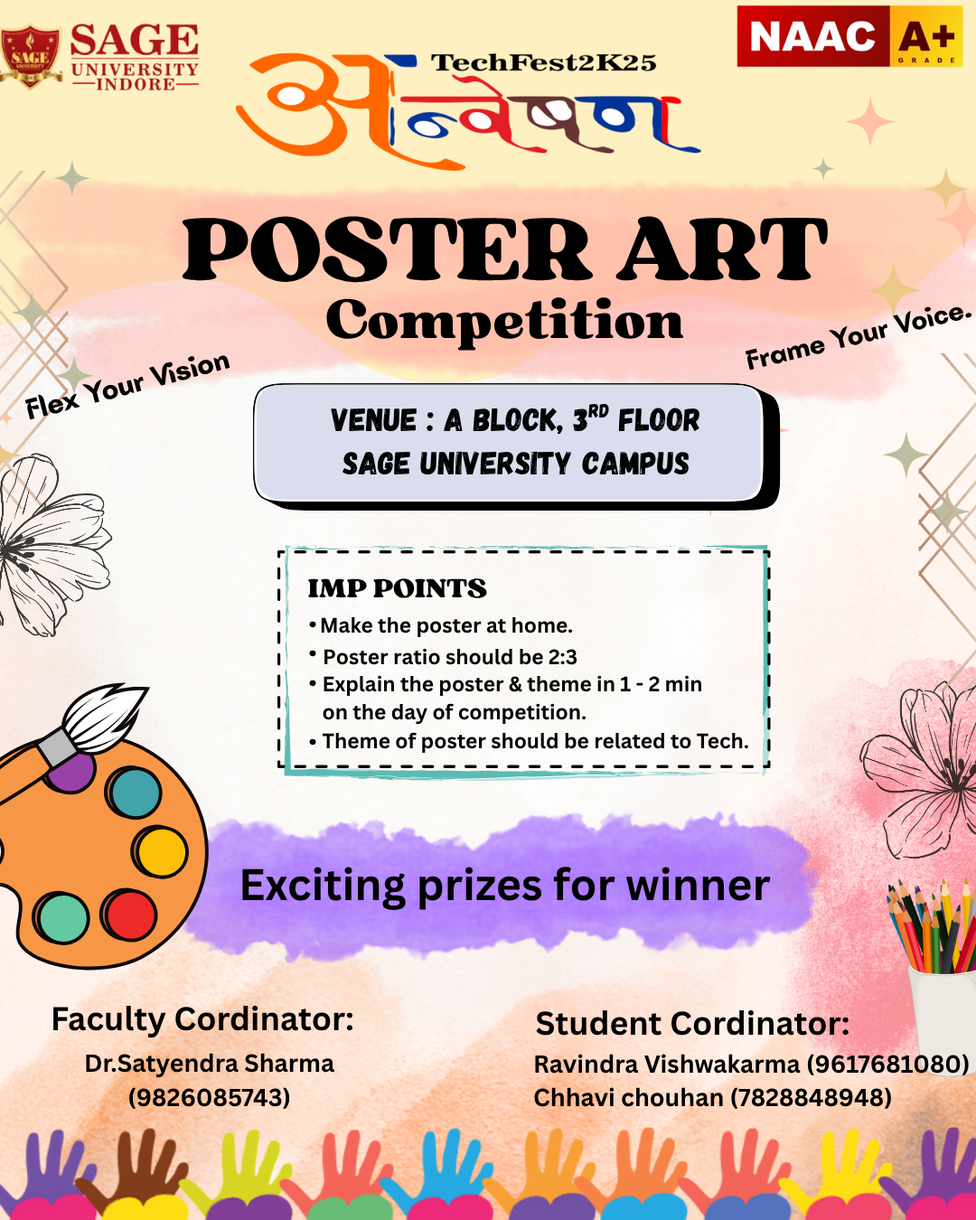
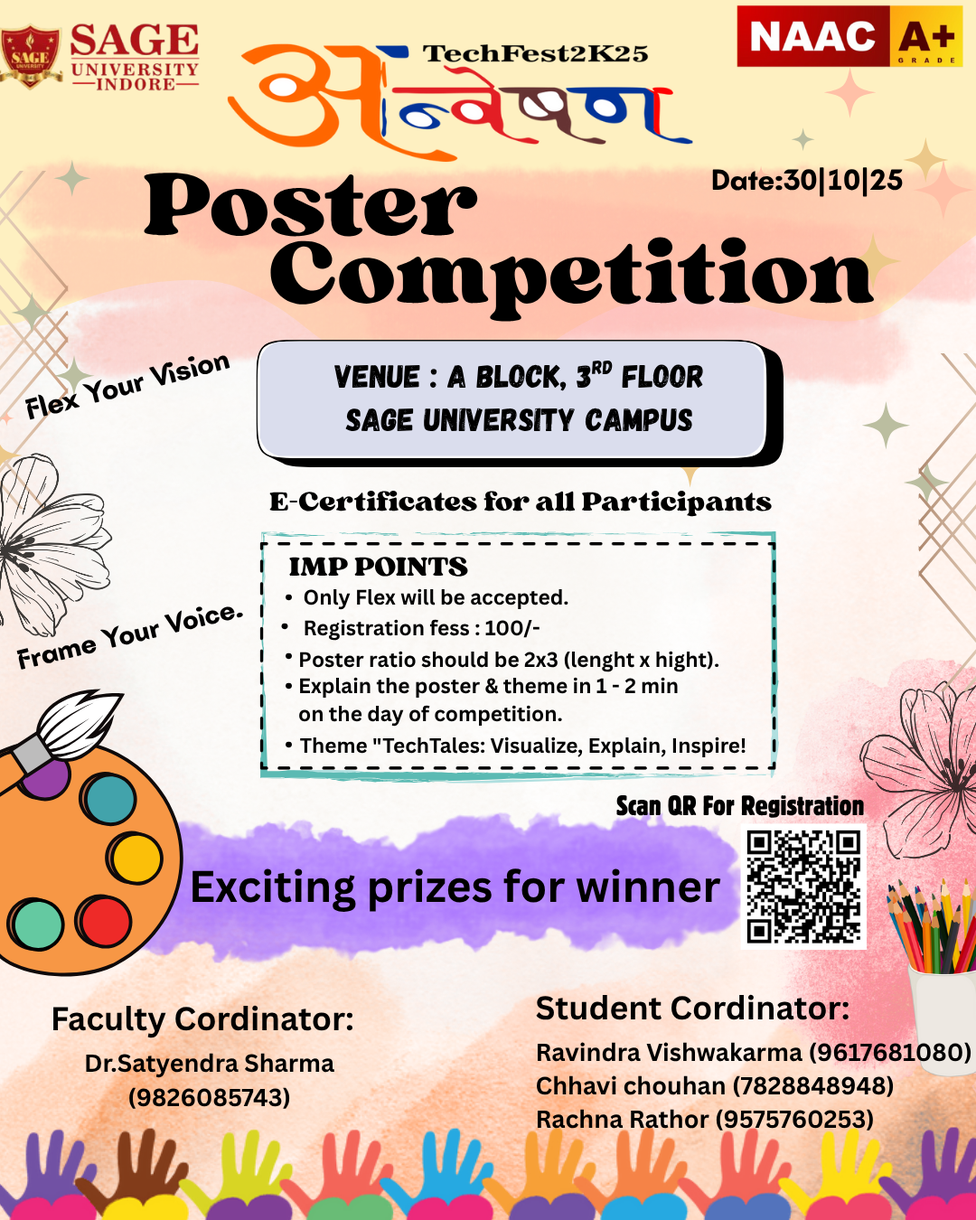
Updated Events

Changed region(s): [[0.0, 0.0311, 1.0, 0.8089], [0.55, 0.8089, 1.0, 0.9333], [0.0611, 0.2489, 0.1222, 0.28]]

diff --git a/src/components/EventsPreview.tsx b/src/components/EventsPreview.tsx
@@ -3,15 +3,30 @@ import { motion } from 'framer-motion';
 // Imported IndianRupee, User, Phone, etc.
 import { Brain, Calendar, Clock, Code, Cpu, Gamepad2, IndianRupee, Lightbulb, Phone, Smartphone, User, Users, X } from 'lucide-react';
 import React, { useState } from 'react';
-import DataViz from './assets/Posters/DataViz.jpeg';
-import Hackathon from './assets/Posters/Hackathon.jpeg';
-import Debate from './assets/Posters/OMJ.jpeg';
-import Poster from './assets/Posters/Poster.png';
-import Quiz from './assets/Posters/Quiz.png';
-import Robo from './assets/Posters/Robo.jpeg';
-import UI from './assets/Posters/UI.jpeg';
+import Badminton from './assets/Posters/Badminton.jpeg';
+import BasketBall from './assets/Posters/BasketBall.jpeg';
+import LANGaming from './assets/Posters/BGMI.jpeg';
+import Chess from './assets/Posters/Chess.jpeg';
 import CodeRace from './assets/Posters/Code Race.jpeg';
+import Dance from './assets/Posters/Dance.jpeg';
+import DataViz from './assets/Posters/DataViz.jpeg';
+import Debate from './assets/Posters/Debate.jpeg';
+import GullyCricket from './assets/Posters/GullyCricket.jpeg';
+import Hackathon from './assets/Posters/Hackathon.jpeg';
+import OMJ from './assets/Posters/OMJ.jpeg';
+import Poster from './assets/Posters/Poster.png';
 import ProjectExhibition from './assets/Posters/ProjectExhibition.png';
+import Quiz from './assets/Posters/Quiz.jpeg';
+import Robo from './assets/Posters/Robo.png';
+import Singing from './assets/Posters/Singing.jpeg';
+import TreasureHunt from './assets/Posters/Treasure Hunt.jpeg';
+import TableTennis from './assets/Posters/TT.jpeg';
+import UI from './assets/Posters/UI.jpeg';
+import VolleyBall from './assets/Posters/VolleyBall.jpeg';
+import FF from './assets/Posters/FF.jpeg';
+import FunFair from './assets/Posters/FunFair.jpeg';
+
+
 
 
 // ----------------------------------------------------------------------
@@ -56,7 +71,7 @@ const events: Event[] = [
     date: 'October 30, 2025', 
     time: '9:00 AM', 
     participants: '50+', 
-    image: Debate, 
+    image: OMJ, 
     registrationFee: '₹100',
     facultyCoordinator: [
       { name: 'Dr. Ati Jain', phone: '9826373722' },
@@ -105,28 +120,32 @@ const events: Event[] = [
   { id: 8, title: 'Project Exhibition', category: 'Techno Parv', description: 'Present your innovative projects and showcase your technical creativity.', icon: Lightbulb, date: 'November 1, 2025', time: '3:00 PM', participants: '100+', image: ProjectExhibition, registrationFee: '₹100', facultyCoordinator: [{ name: 'Prof. Jitendra Sharma', phone: '88219 75488' }], studentCoordinator: [{ name: 'Aditya Choudhary', phone: '7987564175' }], registrationLink: 'https://sageuniversity.in/sage_events/anveshan/' },
   { id: 9, title: 'Code Race', category: 'Techno Parv', description: 'Compete to solve coding problems faster and smarter than your peers.', icon: Lightbulb, date: 'November 1, 2025', time: '3:00 PM', participants: '100+', image: CodeRace, registrationFee: '₹100', facultyCoordinator: [{ name: 'Prof. vaishali Bajpaye', phone: '95841 89932' }], studentCoordinator: [{ name: 'Yashita kushwah ', phone: '9993911030' }], registrationLink: 'https://sageuniversity.in/sage_events/anveshan/' },
   { id: 10, title: 'Tech Debate', category: 'Techno Parv', description: 'Argue your stance on trending tech topics with logic, clarity, and confidence.', icon: Lightbulb, date: 'November 1, 2025', time: '3:00 PM', participants: '100+', image: Debate, registrationFee: '₹100', facultyCoordinator: [{ name: 'Prof. Jitendra Saxena', phone: '90733 22300' }], studentCoordinator: [{ name: 'Arslan Hussain', phone: '6206825799' }], registrationLink: 'https://sageuniversity.in/sage_events/anveshan/' },
-  { id: 11, title: 'LAN Gaming', category: 'Techno Parv', description: 'Compete in adrenaline-pumping multiplayer games for the ultimate gaming glory.', icon: Code, date: 'November 1, 2025', time: '9:00 AM', participants: '500+', image: 'appareal-show-poster.jpg', registrationFee: '₹200', facultyCoordinator: [{ name: 'Prof. Dilip Solanki', phone: '98267 18678' }], studentCoordinator: [{ name: 'Om Shukla', phone: '8989468730' },{ name: 'Aditya Verma', phone: '78188 39571' }], registrationLink: 'https://sageuniversity.in/sage_events/anveshan/' },
-  // { id: 12, title: 'Capture the Flag', category: 'Techno Parv', description: 'Solve cybersecurity challenges to uncover hidden “flags” and prove your hacking skills.', icon: Brain, date: 'November 1, 2025', time: '10:00 AM', participants: '200+', image: 'battle-of-bands-poster.jpg', registrationFee: '₹100', facultyCoordinator: [{ name: 'Mr. Ravikant kori', phone: '91096 19488' }], studentCoordinator: [{ name: 'Tushar Kaushik', phone: '8602198299' }], registrationLink: 'https://sageuniversity.in/sage_events/anveshan/' },
+  { id: 11, title: 'BGMI LAN Gaming', category: 'Techno Parv', description: 'Compete in adrenaline-pumping multiplayer games for the ultimate gaming glory.', icon: Code, date: 'October 30, 2025', time: '9:00 AM', participants: '500+', image: LANGaming, registrationFee: '₹1000', facultyCoordinator: [{ name: 'Prof. Dilip Solanki', phone: '98267 18678' }], studentCoordinator: [{ name: 'Om Shukla', phone: '8989468730' },{ name: 'Aditya Verma', phone: '78188 39571' }], registrationLink: 'https://sageuniversity.in/sage_events/anveshan/' },
+    { id: 12, title: 'Free Fire LAN Gaming', category: 'Techno Parv', description: 'Compete in adrenaline-pumping multiplayer games for the ultimate gaming glory.', icon: Code, date: 'October 30, 2025', time: '9:00 AM', participants: '500+', image: FF, registrationFee: '₹500', facultyCoordinator: [{ name: 'Prof. Dilip Solanki', phone: '98267 18678' }], studentCoordinator: [{ name: 'Aditya Yadav', phone: '9244639933' },{ name: 'Prince Goutam', phone: '700488806' }], registrationLink: 'https://sageuniversity.in/sage_events/anveshan/' },
   { id: 13, title: 'BATTLE OF BANDS', category: 'Cultural Carnival', description: 'Rock the stage as bands clash in an electrifying showdown of rhythm and energy.', icon: Cpu, date: 'November 1, 2025', time: '1:30 - 4:30 PM', participants: '150+', image: 'standup-comedy-poster.jpg', registrationFee: '₹2000', facultyCoordinator: [{ name: 'Prof. Nayan Joshi', phone: '8827563739' },{ name: 'Prof. Siddharth Nath Goutam', phone: '8989525943' }], studentCoordinator: [{ name: 'Vansh OJha', phone: '99939256' },{ name: 'Bishal Joshi', phone: '8623839920' }], registrationLink: 'https://sageuniversity.in/sage_events/anveshan/' },
   { id: 14, title: 'FASHION SHOW', category: 'Cultural Carnival', description: 'Walk the ramp with style and confidence while showcasing creativity and trends.', icon: Gamepad2, date: 'November 1, 2025', time: '11:00 AM', participants: '300+', image: 'stunt-mania-poster.jpg', registrationFee: 'Fashion Show - ₹600 | Apparel Show - ₹1000', facultyCoordinator: [{ name: 'Prof. Aishwarya Patidar', phone: '70008 19969' }], studentCoordinator: [{ name: 'Atharva Barve', phone: '99814 75286' },{ name: 'Hrishikesh Shrivastava', phone: '99879 46163' }], registrationLink: 'https://sageuniversity.in/sage_events/anveshan/' },
-  { id: 15, title: 'Treasure Hunt', category: 'Cultural Carnival', description: 'Solve clues, race against time, and uncover the hidden treasure with your team.', icon: Lightbulb, date: '31/10/2025', time: '11:00 AM', participants: '100+', image: 'treasure-hunt-poster.jpg', registrationFee: '₹600', facultyCoordinator: [{ name: 'Prof. Siddharth Nath', phone: '89895 25943' }], studentCoordinator: [{ name: 'Lakshya Kher', phone: '8770214586' },{ name: 'Aryan Dev', phone: '7251901448' }], registrationLink: 'https://sageuniversity.in/sage_events/anveshan/' },
+  { id: 15, title: 'Treasure Hunt', category: 'Cultural Carnival', description: 'Solve clues, race against time, and uncover the hidden treasure with your team.', icon: Lightbulb, date: '31/10/2025', time: '11:00 AM', participants: '100+', image: TreasureHunt, registrationFee: '₹600', facultyCoordinator: [{ name: 'Prof. Siddharth Nath', phone: '89895 25943' }], studentCoordinator: [{ name: 'Lakshya Kher', phone: '8770214586' },{ name: 'Aryan Dev', phone: '7251901448' }], registrationLink: 'https://sageuniversity.in/sage_events/anveshan/' },
   { id: 16, title: 'REEL MAKING/SHORT Movie Making', category: 'Cultural Carnival', description: 'Capture creativity on camera and tell impactful stories in a few minutes.', icon: Lightbulb, date: '29/10/2025 - 01/11/2025', time: '09:00 AM - 04:30 PM', participants: '100+', image: 'reels-poster.jpg', registrationFee: '₹200', facultyCoordinator: [{ name: 'Prof. Ranu Solanki', phone: '96174 81343' },{ name: 'Sapna Patel', phone: '(99776 02369' }], studentCoordinator: [{ name: 'Harshita Goyal', phone: '94254 56424' }], registrationLink: 'https://sageuniversity.in/sage_events/anveshan/' },
-  { id: 17, title: 'DANCE', category: 'Cultural Carnival', description: 'Express your rhythm, energy, and emotions through electrifying dance moves.', icon: Smartphone, date: '31/10/2025', time: '01:30 - 03:00 PM', participants: '250+', image: 'short-movie-poster.jpg', registrationFee: 'Solo - ₹400 | Group - ₹1000', facultyCoordinator: [{ name: 'Prof. Shaziya Sheikh', phone: '79743 23413' }], studentCoordinator: [{ name: 'Yogeshwari Agrawal ', phone: '80851 84206' },{ name: 'Disha Bais', phone: '96303 34125' }], registrationLink: 'https://sageuniversity.in/sage_events/anveshan/' },
-  { id: 18, title: 'Singing', category: 'Cultural Carnival', description: 'Let your voice steal the spotlight and mesmerize the audience with your melody.', icon: Lightbulb, date: '30/10/2025', time: '01:00 - 2:00 PM', participants: '100+', image: 'dancing-poster.jpg', registrationFee: '₹300', facultyCoordinator: [{ name: 'Prof. Varsha Patil', phone: '85528 14965' }], studentCoordinator: [{ name: 'N/A', phone: 'N/A' }], registrationLink: 'https://sageuniversity.in/sage_events/anveshan/' },
+  { id: 17, title: 'Move & Groove', category: 'Cultural Carnival', description: 'Express your rhythm, energy, and emotions through electrifying dance moves.', icon: Smartphone, date: '31/10/2025', time: '01:30 - 03:00 PM', participants: '250+', image: Dance, registrationFee: 'Solo - ₹400 | Group - ₹1000', facultyCoordinator: [{ name: 'Prof. Shaziya Sheikh', phone: '79743 23413' }], studentCoordinator: [{ name: 'Yogeshwari Agrawal ', phone: '80851 84206' },{ name: 'Disha Bais', phone: '96303 34125' }], registrationLink: 'https://sageuniversity.in/sage_events/anveshan/' },
+  { id: 18, title: 'The Vocal War', category: 'Cultural Carnival', description: 'Let your voice steal the spotlight and mesmerize the audience with your melody.', icon: Lightbulb, date: '30/10/2025', time: '01:00 - 2:00 PM', participants: '100+', image: Singing, registrationFee: '₹300', facultyCoordinator: [{ name: 'Prof. Varsha Patil', phone: '85528 14965' }], studentCoordinator: [{ name: 'N/A', phone: 'N/A' }], registrationLink: 'https://sageuniversity.in/sage_events/anveshan/' },
   { id: 19, title: 'Cricket', category: 'Sports', description: 'Show your skills on the pitch and lead your team to victory with bat and ball.', icon: Lightbulb, date: '29/10/2025', time: '3:00 PM', participants: '100+', image: 'singing-poster.jpg', registrationFee: '₹1700', facultyCoordinator: [{ name: 'Prof Kunal Batra', phone: 'N/A' }], studentCoordinator: [{ name: 'KISHAN YADAV', phone: '9111064338' },{ name: 'Tushar sen ', phone: '9285519930' }], registrationLink: 'https://sageuniversity.in/sage_events/anveshan/' },
-  { id: 20, title: 'Gully Cricket', category: 'Sports', description: 'Relive the street cricket thrill with fun, passion, and quick reflexes.', icon: Lightbulb, date: '29/10/2025', time: '3:00 PM', participants: '100+', image: 'chess-poster.jpg', registrationFee: '₹600', facultyCoordinator: [{ name: 'Prof Lakhmichand Deshmukh', phone: 'N/A' }], studentCoordinator: [{ name: 'PUNJ PRAKASH', phone: '8235694421' },{ name: 'SUMIT YADAV', phone: '8720024344' }], registrationLink: 'https://sageuniversity.in/sage_events/anveshan/' },
+  { id: 20, title: 'Gully Cricket', category: 'Sports', description: 'Relive the street cricket thrill with fun, passion, and quick reflexes.', icon: Lightbulb, date: '29/10/2025', time: '3:00 PM', participants: '100+', image: GullyCricket, registrationFee: '₹600', facultyCoordinator: [{ name: 'Prof Lakhmichand Deshmukh', phone: 'N/A' }], studentCoordinator: [{ name: 'PUNJ PRAKASH', phone: '8235694421' },{ name: 'SUMIT YADAV', phone: '8720024344' }], registrationLink: 'https://sageuniversity.in/sage_events/anveshan/' },
   { id: 22, title: 'Football', category: 'Sports', description: 'Dribble, pass, and score your way to glory in this high-energy team sport.', icon: Lightbulb, date: '29/10/2025', time: '3:00 PM', participants: '100+', image: 'kabbadi-poster.jpg', registrationFee: '₹800', facultyCoordinator: [{ name: 'Prof. Lokendra Vishvakarma', phone: 'N/A' }], studentCoordinator: [{ name: 'PRATHAM VERMA', phone: '7089512357' },{ name: 'MD ASIF', phone: '6201011783' }], registrationLink: 'https://sageuniversity.in/sage_events/anveshan/' },
-  { id: 23, title: 'Badminton (Single)', category: 'Sports', description: 'Test your agility and precision in an intense one-on-one shuttle battle.', icon: Lightbulb, date: '29/10/2025', time: '3:00 PM', participants: '100+', image: 'gully-cricket-poster.jpg', registrationFee: 'Under 18 - ₹200 | Above 18 - ₹250', facultyCoordinator: [{ name: 'Dr. Deepak K Yadav', phone: 'N/A' }], studentCoordinator: [{ name: 'KHUSHAL KANATHEY', phone: '9399199027' },{ name: 'YATHARTH PATEL', phone: '9238803405' }], registrationLink: 'https://sageuniversity.in/sage_events/anveshan/' },
-  { id: 24, title: 'Badminton (Double)', category: 'Sports', description: 'Team up and coordinate for fast-paced rallies and smashing victories.', icon: Lightbulb, date: '29/10/2025', time: '3:00 PM', participants: '100+', image: 'cricket-poster.jpg', registrationFee: 'Under 18 - ₹350 | Above 18 - ₹400', facultyCoordinator: [{ name: 'Prof Jeetesh K Jain', phone: 'N/A' }], studentCoordinator: [{ name: 'MAYANK DEWANGAN', phone: '9827950327' },{ name: 'MAYANK DEWANGAN', phone: '9827950327' }], registrationLink: 'https://sageuniversity.in/sage_events/anveshan/' },
-  { id: 25, title: 'Basket Ball', category: 'Sports', description: 'Dunk, shoot, and defend in a thrilling match of teamwork and stamina.', icon: Lightbulb, date: '29/10/2025', time: '3:00 PM', participants: '100+', image: 'football-poster.jpg', registrationFee: '₹1100', facultyCoordinator: [{ name: 'Dr. Deepak K Yadav', phone: 'N/A' }], studentCoordinator: [{ name: 'MALAY PATEL', phone: '7489529344' },{ name: 'KRISHNA RAJHANS', phone: '6266302604' }], registrationLink: 'https://sageuniversity.in/sage_events/anveshan/' },
-  { id: 26, title: 'Chess', category: 'Sports', description: 'Outsmart your opponent in this ultimate game of strategy and intellect.', icon: Lightbulb, date: '29/10/2025', time: '3:00 PM', participants: '100+', image: 'volleyball-poster.jpg', registrationFee: '₹200', facultyCoordinator: [{ name: 'Prof. Lokendra Vishvakarma', phone: 'N/A' }], studentCoordinator: [{ name: 'ROHIT MISHRA', phone: '91791090006' }], registrationLink: 'https://sageuniversity.in/sage_events/anveshan/' },
-  { id: 27, title: 'Volley Ball', category: 'Sports', description: 'Set, spike, and serve your way through exciting rallies on the court.', icon: Lightbulb, date: '29/10/2025', time: '3:00 PM', participants: '100+', image: 'basketball-poster.jpg', registrationFee: '₹1000', facultyCoordinator: [{ name: 'Prof Kunal Batra', phone: 'N/A' }], studentCoordinator: [{ name: 'VEDANT PATEL', phone: '9589396704' },{ name: 'VISHWAJEET RATHORE', phone: '7415674055' }], registrationLink: 'https://sageuniversity.in/sage_events/anveshan/' },
+  { id: 23, title: 'Badminton (Single)', category: 'Sports', description: 'Test your agility and precision in an intense one-on-one shuttle battle.', icon: Lightbulb, date: '29/10/2025', time: '3:00 PM', participants: '100+', image: Badminton, registrationFee: 'Under 18 - ₹200 | Above 18 - ₹250', facultyCoordinator: [{ name: 'Dr. Deepak K Yadav', phone: 'N/A' }], studentCoordinator: [{ name: 'KHUSHAL KANATHEY', phone: '9399199027' },{ name: 'YATHARTH PATEL', phone: '9238803405' }], registrationLink: 'https://sageuniversity.in/sage_events/anveshan/' },
+  { id: 24, title: 'Badminton (Double)', category: 'Sports', description: 'Team up and coordinate for fast-paced rallies and smashing victories.', icon: Lightbulb, date: '29/10/2025', time: '3:00 PM', participants: '100+', image: Badminton, registrationFee: 'Under 18 - ₹350 | Above 18 - ₹400', facultyCoordinator: [{ name: 'Prof Jeetesh K Jain', phone: 'N/A' }], studentCoordinator: [{ name: 'MAYANK DEWANGAN', phone: '9827950327' },{ name: 'MAYANK DEWANGAN', phone: '9827950327' }], registrationLink: 'https://sageuniversity.in/sage_events/anveshan/' },
+  { id: 25, title: 'Basket Ball', category: 'Sports', description: 'Dunk, shoot, and defend in a thrilling match of teamwork and stamina.', icon: Lightbulb, date: '29/10/2025', time: '3:00 PM', participants: '100+', image: BasketBall, registrationFee: '₹1100', facultyCoordinator: [{ name: 'Dr. Deepak K Yadav', phone: 'N/A' }], studentCoordinator: [{ name: 'MALAY PATEL', phone: '7489529344' },{ name: 'KRISHNA RAJHANS', phone: '6266302604' }], registrationLink: 'https://sageuniversity.in/sage_events/anveshan/' },
+  { id: 26, title: 'Chess', category: 'Sports', description: 'Outsmart your opponent in this ultimate game of strategy and intellect.', icon: Lightbulb, date: '29/10/2025', time: '3:00 PM', participants: '100+', image: Chess, registrationFee: '₹200', facultyCoordinator: [{ name: 'Prof. Lokendra Vishvakarma', phone: 'N/A' }], studentCoordinator: [{ name: 'ROHIT MISHRA', phone: '91791090006' }], registrationLink: 'https://sageuniversity.in/sage_events/anveshan/' },
+  { id: 27, title: 'Volley Ball', category: 'Sports', description: 'Set, spike, and serve your way through exciting rallies on the court.', icon: Lightbulb, date: '29/10/2025', time: '3:00 PM', participants: '100+', image: VolleyBall, registrationFee: '₹1000', facultyCoordinator: [{ name: 'Prof Kunal Batra', phone: 'N/A' }], studentCoordinator: [{ name: 'VEDANT PATEL', phone: '9589396704' },{ name: 'VISHWAJEET RATHORE', phone: '7415674055' }], registrationLink: 'https://sageuniversity.in/sage_events/anveshan/' },
   { id: 30, title: 'Carrom (Single)', category: 'Sports', description: 'Strike with precision and pocket your way to victory solo.', icon: Lightbulb, date: '29/10/2025', time: '3:00 PM', participants: '100+', image: 'table-tennis-poster.jpg', registrationFee: '₹100', facultyCoordinator: [{ name: 'Prof. Lokendra Vishvakarma', phone: 'N/A' }], studentCoordinator: [{ name: 'ADITYA BELE', phone: 'N/A' }], registrationLink: 'https://sageuniversity.in/sage_events/anveshan/' },
   { id: 31, title: 'Carrom (Double)', category: 'Sports', description: 'Partner up to showcase teamwork and skill in this classic board challenge.', icon: Lightbulb, date: '29/10/2025', time: '3:00 PM', participants: '100+', image: 'table-tennis-poster.jpg', registrationFee: '₹200', facultyCoordinator: [{ name: 'Prof Jeetesh K Jain', phone: 'N/A' }], studentCoordinator: [{ name: 'AKASH DWIVEDI', phone: '9174287753' }], registrationLink: 'https://sageuniversity.in/sage_events/anveshan/' },
   { id: 33, title: 'Kabaddi', category: 'Sports', description: 'Combine strength, strategy, and agility to tag and tackle your way to triumph.', icon: Lightbulb, date: '29/10/2025', time: '3:00 PM', participants: '100+', image: 'table-tennis-poster.jpg', registrationFee: '₹1000', facultyCoordinator: [{ name: 'Dr. Deepak K Yadav', phone: 'N/A' }], studentCoordinator: [{ name: 'RAJVEER RAJPUT', phone: '9753354283' }], registrationLink: 'https://sageuniversity.in/sage_events/anveshan/' },
-  { id: 34, title: 'Table Tennis', category: 'Sports', description: 'Smash and spin your way through fast-paced rallies for the win.', icon: Lightbulb, date: '29/10/2025', time: '3:00 PM', participants: '100+', image: 'table-tennis-poster.jpg', registrationFee: '₹150', facultyCoordinator: [{ name: ' Prof. Vinod Azad', phone: 'N/A' }], studentCoordinator: [{ name: 'SANYOG', phone: '8839574422' },{ name: 'BHAVESH', phone: '6263142567' }], registrationLink: 'https://sageuniversity.in/sage_events/anveshan/' },
+  { id: 34, title: 'Table Tennis', category: 'Sports', description: 'Smash and spin your way through fast-paced rallies for the win.', icon: Lightbulb, date: '29/10/2025', time: '3:00 PM', participants: '100+', image: TableTennis, registrationFee: '₹150', facultyCoordinator: [{ name: ' Prof. Vinod Azad', phone: 'N/A' }], studentCoordinator: [{ name: 'SANYOG', phone: '8839574422' },{ name: 'BHAVESH', phone: '6263142567' }], registrationLink: 'https://sageuniversity.in/sage_events/anveshan/' },
   { id: 35, title: 'Running Race (100m)', category: 'Sports', description: 'Sprint with all your might to claim the title of fastest on track.', icon: Lightbulb, date: '29/10/2025', time: '3:00 PM', participants: '100+', image: 'table-tennis-poster.jpg', registrationFee: '100m - ₹200 | 200m - ₹300 |400m - ₹400 |4*100m Relay - ₹600 ', facultyCoordinator: [{ name: ' Prof. Vinod Azad', phone: 'N/A' }], studentCoordinator: [{ name: 'VISHWAJEET RATHORE', phone: '7415674055' }], registrationLink: 'https://sageuniversity.in/sage_events/anveshan/' },
-  { id: 36, title: 'Power Lifting', category: 'Sports', description: 'Showcase your strength and determination in this ultimate test of power.', icon: Lightbulb, date: '29/10/2025', time: '3:00 PM', participants: '100+', image: 'table-tennis-poster.jpg', registrationFee: '₹200/Event', facultyCoordinator: [{ name: 'Prof Kunal Batra', phone: 'N/A' }], studentCoordinator: [{ name: 'MALAY PATEL', phone: '7489529344' }], registrationLink: 'https://sageuniversity.in/sage_events/anveshan/' }
+  { id: 36, title: 'Power Lifting', category: 'Sports', description: 'Showcase your strength and determination in this ultimate test of power.', icon: Lightbulb, date: '29/10/2025', time: '3:00 PM', participants: '100+', image: 'table-tennis-poster.jpg', registrationFee: '₹200/Event', facultyCoordinator: [{ name: 'Prof Kunal Batra', phone: 'N/A' }], studentCoordinator: [{ name: 'MALAY PATEL', phone: '7489529344' }], registrationLink: 'https://sageuniversity.in/sage_events/anveshan/' },
+    { id: 37, title: 'Food Stall', category: 'Fun Fair', description: 'Showoff your cooking skills', icon: Lightbulb, date: '29/10/2025 - 01/11/2025', time: '3:00 PM', participants: '100+', image: FunFair, registrationFee: 'Sagian - ₹2500 | Non-Sagian - ₹5000', facultyCoordinator: [{ name: ' Prof. Vijay Malviya', phone: '9098396770' }], studentCoordinator: [{ name: 'Sanjay Rai', phone: '8085236467' }], registrationLink: 'https://sageuniversity.in/sage_events/anveshan/' },
+    { id: 38, title: 'Cultural Stalls', category: 'Fun Fair', description: 'Showoff your cooking skills', icon: Lightbulb, date: '29/10/2025 - 01/11/2025', time: '3:00 PM', participants: '100+', image: FunFair, registrationFee: 'Sagian - ₹2500 | Non-Sagian - ₹5000', facultyCoordinator: [{ name: ' Prof. Priya Sen', phone: '8319012848' }], studentCoordinator: [{ name: 'Astha Harode', phone: '7000273376' }], registrationLink: 'https://sageuniversity.in/sage_events/anveshan/' },
+    { id: 39, title: 'Game Stall', category: 'Fun Fair', description: 'Showoff your cooking skills', icon: Lightbulb, date: '29/10/2025 - 01/11/2025', time: '3:00 PM', participants: '100+', image: FunFair, registrationFee: 'Sagian - ₹2500 | Non-Sagian - ₹5000', facultyCoordinator: [{ name: ' Prof. Vijay Malviya', phone: '9098396770' }], studentCoordinator: [{ name: 'Anuj Agrawal', phone: '9301534648' }], registrationLink: 'https://sageuniversity.in/sage_events/anveshan/' },
+    { id: 38, title: 'Water Bottle Stalls', category: 'Fun Fair', description: 'Showoff your cooking skills', icon: Lightbulb, date: '29/10/2025 - 01/11/2025', time: '3:00 PM', participants: '100+', image: FunFair, registrationFee: 'Sagian - ₹5000 | Non-Sagian - ₹10000', facultyCoordinator: [{ name: ' Prof. Priya Sen', phone: '8319012848' }], studentCoordinator: [{ name: 'Astha Jain', phone: '881960259' }], registrationLink: 'https://sageuniversity.in/sage_events/anveshan/' },
 ];
 
 

diff --git a/src/components/CyberTeamSection.tsx b/src/components/CyberTeamSection.tsx
@@ -11,6 +11,7 @@ import sneha from './assets/Person/sneha mam.png';
 import suranjit from './assets/Person/Suranjit.png';
 import Sanjay from './assets/Person/Sanjay.png';
 import Debyanshu from './assets/Person/debyanshu.png';
+import Astha from './assets/Person/astha.png';
 
 // Team data with 10 members
 const teamMembers = [
@@ -39,43 +40,50 @@ const teamMembers = [
     id: 4,
     name: "Kushagra Neekhra",
     role: "Cultural Coordinator",
-    image: Kushagra
+    image: Kushagra,
+    contact: "8601051570"
   },
   {
     id: 5,
     name: "Utkarsh Srivastava",
     role: "TechnoParv Coordinator",
-    image: Utkarsh 
+    image: Utkarsh,
+    contact: "7652004780"
   },
   {
     id: 6,
     name: "Sanjay Rai",
     role: "FunFair Coordinator",
-    image: Sanjay 
+    image: Sanjay,
+    contact: "8085236467" 
   },
   {
     id: 7,
     name: "Astha Harode",
     role: "FunFair Coordinator",
-    image: ritu 
+    image: Astha,
+    contact: "7000273376" 
   },
   {
     id: 8,
     name: "Debyanshu Chatterjee",
     role: "Cultural Coordinator",
-    image: Debyanshu 
+    image: Debyanshu,
+    contact: "8080156437"
   },
   {
     id: 9,
     name: "Kishan Yadav",
     role: "Sports Coordinator",
-    image: Kishan 
+    image: Kishan,
+    contact: "9111064338" 
   },
   {
     id: 10,
     name: "Akash Dwivedi",
     role: "Sports Coordinator",
-    image: Akash 
+    image: Akash,
+    contact: "9174287753" 
   }
 ];
 

diff --git a/src/components/AboutSection.tsx b/src/components/AboutSection.tsx
@@ -8,6 +8,8 @@ import Cultural from '../components/assets/Posters/Cultural.jpeg';
 import CulturalMini from '../components/assets/Posters/CulturalMini.png';
 import Sports from '../components/assets/Posters/Sports.jpeg';
 import SportsMini from '../components/assets/Posters/SportsMini.jpeg';
+import FunFair from '../components/assets/Posters/FunFair.jpeg';
+import FunFairMini from '../components/assets/Posters/FunFairMini.jpeg';
 
 
 interface EventModalProps {
@@ -80,8 +82,8 @@ const AboutSection: React.FC = () => {
     },
     {
       title: 'Fun Fair',
-      cardImage: {TechnoParvMini}, 
-      modalImage: {TechnoParv},
+      cardImage: FunFairMini, 
+      modalImage: FunFair,
       shortDescription: 'Engaging games and fun activities for everyone.',
       details: 'Take a break from the tech and dive into a world of fun! Our Fun Fair offers a variety of games, food stalls, and entertainment to help you relax and make new friends.',
       rules: ['Coupons required for games.', 'Follow instructions at each stall.', 'Enjoy responsibly!']
